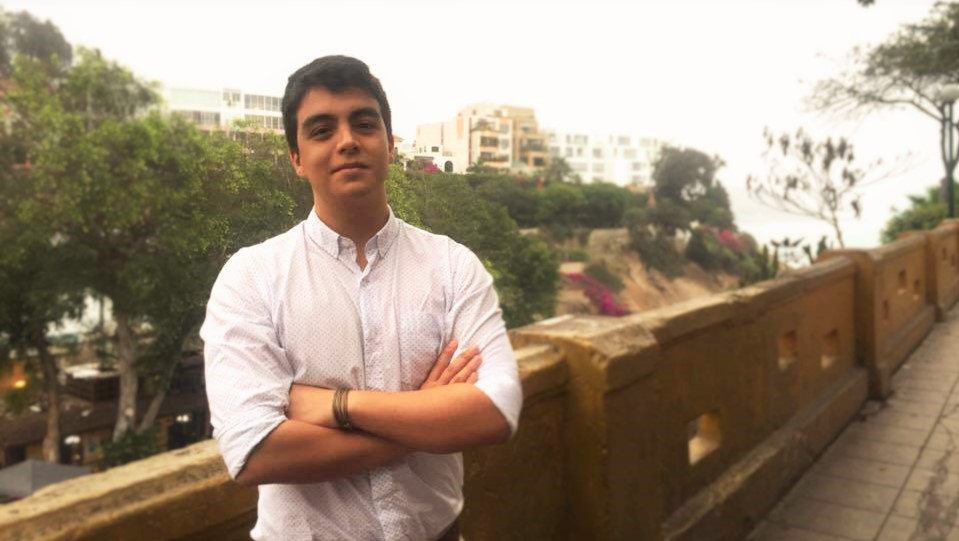
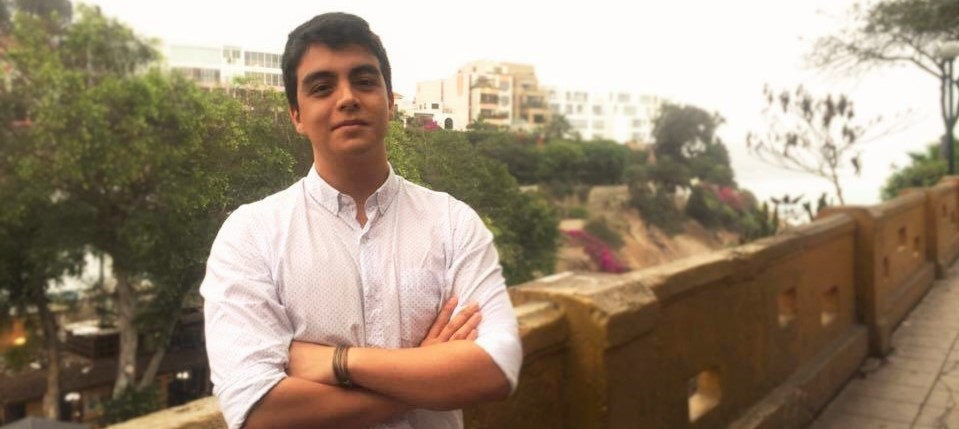
add img

diff --git a/generic.html b/generic.html
@@ -49,7 +49,7 @@
 									<header class="major">
 										<h1>About Me</h1>
 									</header>
-									<span class="image main"><img src="images/yo2.jpg" alt="" /></span>
+									<span class="image main"><img src="images/yo.jpg" alt="" /></span>
 									<p>Donec eget ex magna. Interdum et malesuada fames ac ante ipsum primis in faucibus. Pellentesque venenatis dolor imperdiet dolor mattis sagittis. Praesent rutrum sem diam, vitae egestas enim auctor sit amet. Pellentesque leo mauris, consectetur id ipsum sit amet, fergiat. Pellentesque in mi eu massa lacinia malesuada et a elit. Donec urna ex, lacinia in purus ac, pretium pulvinar mauris. Curabitur sapien risus, commodo eget turpis at, elementum convallis elit. Pellentesque enim turpis, hendrerit.</p>
 									<p>Lorem ipsum dolor sit amet, consectetur adipiscing elit. Duis dapibus rutrum facilisis. Class aptent taciti sociosqu ad litora torquent per conubia nostra, per inceptos himenaeos. Etiam tristique libero eu nibh porttitor fermentum. Nullam venenatis erat id vehicula viverra. Nunc ultrices eros ut ultricies condimentum. Mauris risus lacus, blandit sit amet venenatis non, bibendum vitae dolor. Nunc lorem mauris, fringilla in aliquam at, euismod in lectus. Pellentesque habitant morbi tristique senectus et netus et malesuada fames ac turpis egestas. In non lorem sit amet elit placerat maximus. Pellentesque aliquam maximus risus, vel sed vehicula.</p>
 									<p>Interdum et malesuada fames ac ante ipsum primis in faucibus. Pellentesque venenatis dolor imperdiet dolor mattis sagittis. Praesent rutrum sem diam, vitae egestas enim auctor sit amet. Pellentesque leo mauris, consectetur id ipsum sit amet, fersapien risus, commodo eget turpis at, elementum convallis elit. Pellentesque enim turpis, hendrerit tristique lorem ipsum dolor.</p>
